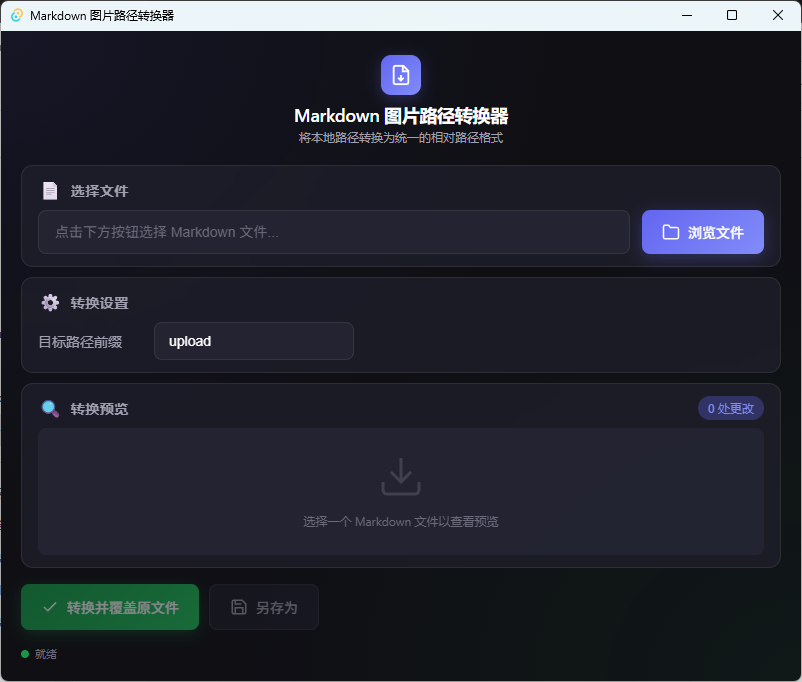
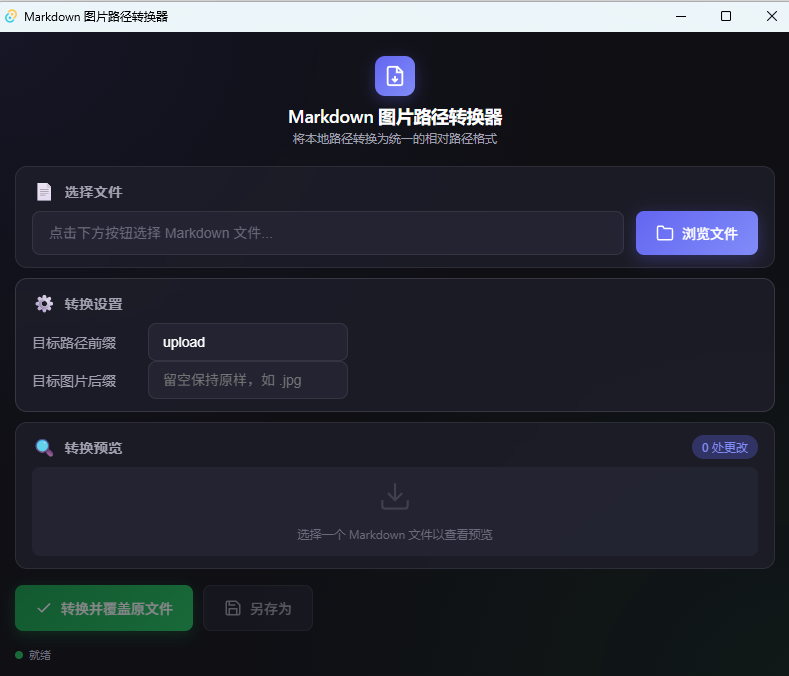
docs: add extension conversion feature to README and update screenshot

diff --git a/README.md b/README.md
@@ -18,6 +18,7 @@ A lightweight desktop application that converts local image paths in Markdown fi
 - 🎯 **One-Click Conversion** - Select a Markdown file and convert all image paths instantly
 - 🔍 **Live Preview** - See all changes before applying them
 - ⚙ **Custom Prefix** - Set your own target path prefix (default: `upload`)
+- 🔄 **Extension Conversion** - Convert image extensions (e.g., `.png` → `.jpg`), leave empty to keep original
 - 💾 **Flexible Output** - Overwrite original file or save as a new file
 - 🎨 **Modern UI** - Beautiful dark theme with glassmorphism effects
 - 📦 **Tiny Size** - Only ~2MB installer (compared to 100MB+ for Electron apps)

diff --git a/README_ZH.md b/README_ZH.md
@@ -18,6 +18,7 @@
 - 🎯 **一键转换** - 选择 Markdown 文件，立即转换所有图片路径
 - 🔍 **实时预览** - 应用更改前预览所有转换内容
 - ⚙ **自定义前缀** - 设置目标路径前缀（默认：`upload`）
+- 🔄 **后缀转换** - 转换图片后缀（如 `.png` → `.jpg`），留空保持原样
 - 💾 **灵活输出** - 覆盖原文件或另存为新文件
 - 🎨 **现代界面** - 深色主题 + 玻璃拟态效果
 - 📦 **体积小巧** - 安装包仅 ~2MB（对比 Electron 应用 100MB+）
